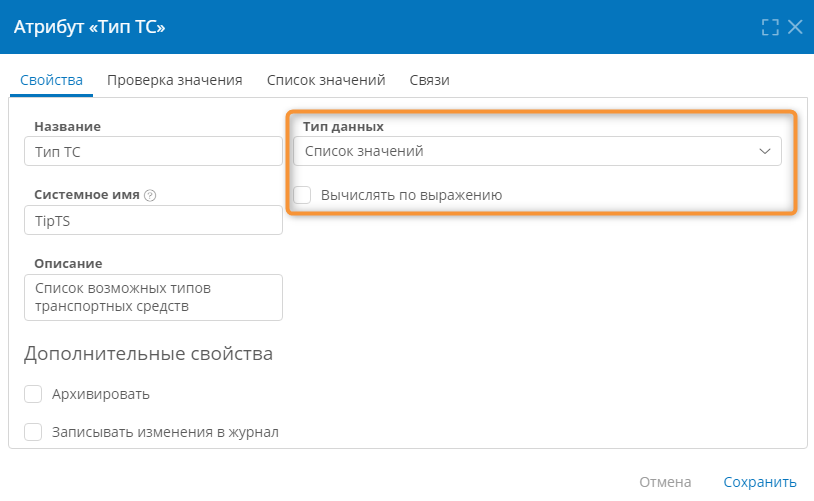
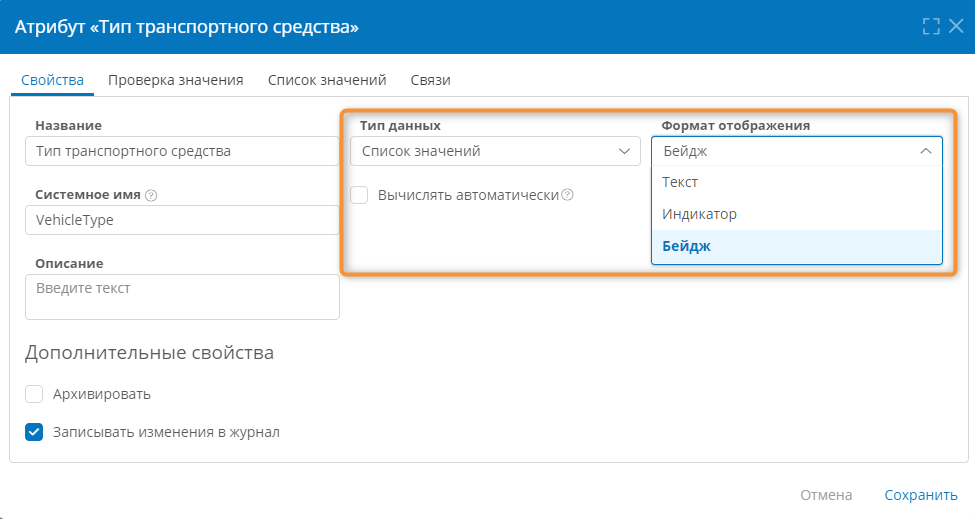
Edited Attribute Enum article

diff --git a/docs/ru/business_apps/templates/attributes/attribute_enum.md b/docs/ru/business_apps/templates/attributes/attribute_enum.md
@@ -1,28 +1,34 @@
 ---
 title: Атрибут типа «Список значений»
+kbId: 2244
 ---
 
 # Атрибут типа «Список значений»
 
-Атрибут типа «**Список значений**» содержит ссылку на текстовое значение, выбранное из предварительно заданного списка.
-
 ## Свойства атрибута
 
-Помимо **[общих свойств](attribute_common_properties.md)** для атрибута типа «**Список значений**» предусмотрены перечисленные ниже свойства.
+Атрибут типа «**Список значений**» содержит ссылку на текстовое значение, выбранное из предварительно заданного списка.
 
-* Вкладка «**Свойства**»
+Помимо **[общих свойств](attribute_common_properties.md)** для атрибута типа «**Список значений**» предусмотрены перечисленные ниже свойства.
+
+- Вкладка «**Свойства**»
     --8<-- "attribute_property_calculated.md"
+    - **Формат отображения:**
+        - **Текст** — значения атрибута будут отображаться в виде простого текста;
+        - **Индикатор** — перед значением атрибута будет отображаться кружок (если не задан значок) или значок заданного цвета;
+        - **Бейдж** — значение и значок атрибута будут отображаться на подложке заданого цвета. См. [пример](#пример-использования).
 
-*![Свойства атрибута типа «Список значений»](attribute_enum_properties.png)*
+_![Свойства атрибута типа «Список значений»](attribute_enum_properties.png)_
 
-* Вкладка «**Список значений**»
-    - «**Системное имя**» **(обязательное поле)** — системное имя элемента списка.
-    - «**EN**» **(обязательное поле)** — английское название пункта в списке.
-    - «**DE**» — немецкое название пункта в списке.
-    - «**RU**» — русское название пункта в списке.
-    - «**Цвет**» — цвет, которым будет отображаться пункт в списке.
+- Вкладка «**Список значений**»
+    - **Системное имя** **(обязательное поле)** — системное имя элемента списка.
+    - **EN** — английское название пункта в списке.
+    - **DE** — немецкое название пункта в списке.
+    - **RU** — русское название пункта в списке.
+    - **Цвет** — цвет, которым будет отображаться значение атрибута.
+    - **Значок** — значок, который будет отображаться рядом со значением атрибута.
 
-*![Список значений](attribute_enum_properties_value_list_tab.png)*
+_![Список значений](attribute_enum_properties_value_list_tab.png)_
 
 ## Создание элементов списка значений
 
@@ -31,10 +37,11 @@ title: Атрибут типа «Список значений»
 3. Нажмите поле «**EN**» и введите английское отображаемое название пункта в списке.
 4. Нажмите поле «**RU**» и введите русское отображаемое название пункта в списке.
 5. Нажмите поле «**Цвет**» и выберите цвет пункта в списке.
-6. Повторите шаги 1–5, чтобы создать остальные элементы списка.
-7. Нажмите кнопку «**Сохранить**», чтобы сохранить атрибут.
+6. Нажмите поле «**Значок**» и выберите значок пункта в списке.
+7. Повторите шаги 1–5, чтобы создать остальные элементы списка.
+8. Нажмите кнопку «**Сохранить**», чтобы сохранить атрибут.
 
-*![Создание элементов списка значений](attribute_enum_create_value_list.png)*
+_![Создание элементов списка значений](attribute_enum_create_value_list.png)_
 
 ## Удаление элементов из списка значений
 
@@ -43,33 +50,41 @@ title: Атрибут типа «Список значений»
 3. В отобразившемся окне подтверждения нажмите кнопку «**Удалить**».
 4. Нажмите кнопку «**Сохранить**», чтобы сохранить атрибут.
 
-*![Удаление элементов из списка значений](attribute_enum_delete_values.png)*
+_![Удаление элементов из списка значений](attribute_enum_delete_values.png)_
 
 ## Пример использования
 
 !!! Tip "Выбор типа транспортного средства из списка значений"
 
+    См. также статьи _«[Атрибут типа «Список значений». Вычисление значения по справочнику]({{ kbArticleURLPrefix }}2571)»_ и _«[Атрибут типа «Список значений». Вычисление текущего значения]({{ kbArticleURLPrefix }}2497)»_.
+
     **Конфигурация приложения**
 
-    * Атрибут _«Тип ТС»_
-        - **Тип данных**: **Список значений**
-         
-            Системное имя   | EN        | RU
-            -------       | ------- | -------
-            Bus             | Bus       | Автобус
-            PassengerCar    | Car       | Легковой автомобиль
-            Truck           | Truck     | Пикап
-            Van             | Minivan   | Микроавтобус
+    - Атрибут _«Тип транспортного средства»_
+        - **Тип данных**: **Список значений**
+        - **Формат отображения: Бейдж**
+        - **Список значений:**
+            
+            |Системное имя|EN|RU|Цвет|Значок|
+            |---|---|---|---|---|
+            |bus|Bus|Автобус|#ff0000|__ bus|
+            |passengerCar|Car|Легковой автомобиль|#0000ff|__ car|
+            |truck|Truck|Пикап|#00ff00|__ truck|
+            |van|Minivan|Микроавтобус|#ffff00|__ van-shuttle|
+            
 
     **Результирующее поведение**
 
-    * Поле _«Тип ТС»_ будет отображаться как раскрывающийся список из 4 пунктов:
-    *![Раскрывающийся список значений на форме](attribute_enum_example.png)*
+    - Поле _«Тип транспортного средства»_ будет отображаться как раскрывающийся список с названиями и значками автомобилей, пункты списка будут окрашены указанными цветами:
+        
+        _![Раскрывающийся список значений на форме](attribute_enum_example.png)_
 
 --8<-- "related_topics_heading.md"
 
+**[Атрибут типа «Список значений». Вычисление значения по справочнику]({{ kbArticleURLPrefix }}2571)**
+
+[**Атрибут типа «Список значений». Вычисление текущего значения**]({{ kbArticleURLPrefix }}2497)
+
 **[Общие свойства атрибутов](attribute_common_properties.md)**
 
-**[Просмотр и настройка свойств атрибута](attribute_setup.md)**
-
-**[Создание атрибута](attribute_creation.md)**
+**[Атрибуты. Определения, типы, настройка, архивирование, удаление][атрибуты-определения-типы-настройка-архивирование-удаление]**
